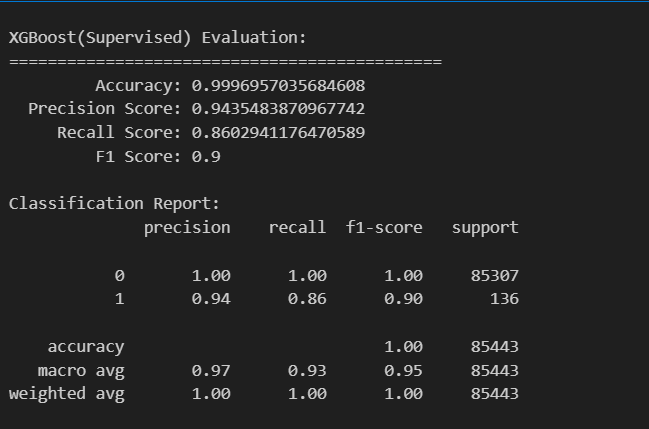
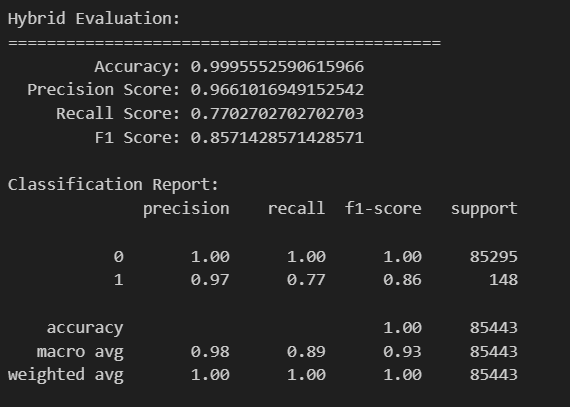
Add files via upload

diff --git a/ex2.md b/ex2.md
@@ -1,0 +1,68 @@
+# Isolation + XGBoost
+
+結合作業1使用的Isolation + XGBoost
+
+## 多種非監督方法生成特徵
+### PCA資訊濃縮
+>
+    pca = PCA(n_components=25) 
+    // n_components=10~25此範圍中數值越大 Precision Score越高
+    x_train = pca.fit_transform(x_train)
+    x_test = pca.transform(x_test)
+>
+
+### 用Isolation forest生成異常分數
+>
+    iso = IsolationForest(contamination=0.0017,n_estimators=300,random_state=RANDOM_SEED)
+    iso.fit(x_train)
+    // decision_function 會給每筆資料一個異常分數
+    anomaly_score_train = iso.decision_function(x_train)
+    anomaly_score_test = iso.decision_function(x_test)
+>
+
+### 加入KMeans 對正常樣本分群，推測測試資料所屬群
+
+>
+    只使用正常樣本來訓練群集
+    normal_train = x_train[y_train == 0]
+    kmeans = KMeans(n_clusters=3, init='k-means++', random_state=42)
+    kmeans.fit(normal_train)
+
+    對整個訓練 & 測試資料預測所屬 cluster
+    cluster_train = kmeans.predict(x_train)
+    cluster_test = kmeans.predict(x_test)
+
+    將 cluster label one-hot encode（也可以直接用 label）
+    from sklearn.preprocessing import OneHotEncoder
+
+    enc = OneHotEncoder(sparse_output=False, handle_unknown='ignore')
+    cluster_train_oh = enc.fit_transform(cluster_train.reshape(-1, 1))
+    cluster_test_oh = enc.transform(cluster_test.reshape(-1, 1))
+>
+### 合併所有特徵
+>
+    原始特徵 + 異常分數 + KMeans cluster label
+    x_train_ext = np.hstack((x_train, anomaly_score_train.reshape(-1, 1), cluster_train_oh))
+    x_test_ext = np.hstack((x_test, anomaly_score_test.reshape(-1, 1), cluster_test_oh))
+
+>
+## 監督式分類訓練與預測
+### XGBoost參數
+>
+    import xgboost as xgb
+    xgb_model = xgb.XGBClassifier(n_estimators=175,
+    learning_rate=0.05,
+    max_depth=7,
+    scale_pos_weight=5,
+    random_state=RANDOM_SEED)
+
+    xgb_model.fit(x_train_ext, y_train)
+
+    y_pred = xgb_model.predict(x_test_ext)
+>
+* learning_rate 原本的 0.2 結果不好 逐步調低後 Precision Score 有逐步提高的趨勢 
+
+## 最後結果
+![alt text](image.png)
+* precision score 在 調整 lr 後有明顯提升！
+* recall 和 F1 score 始終還是無法提高QQ
